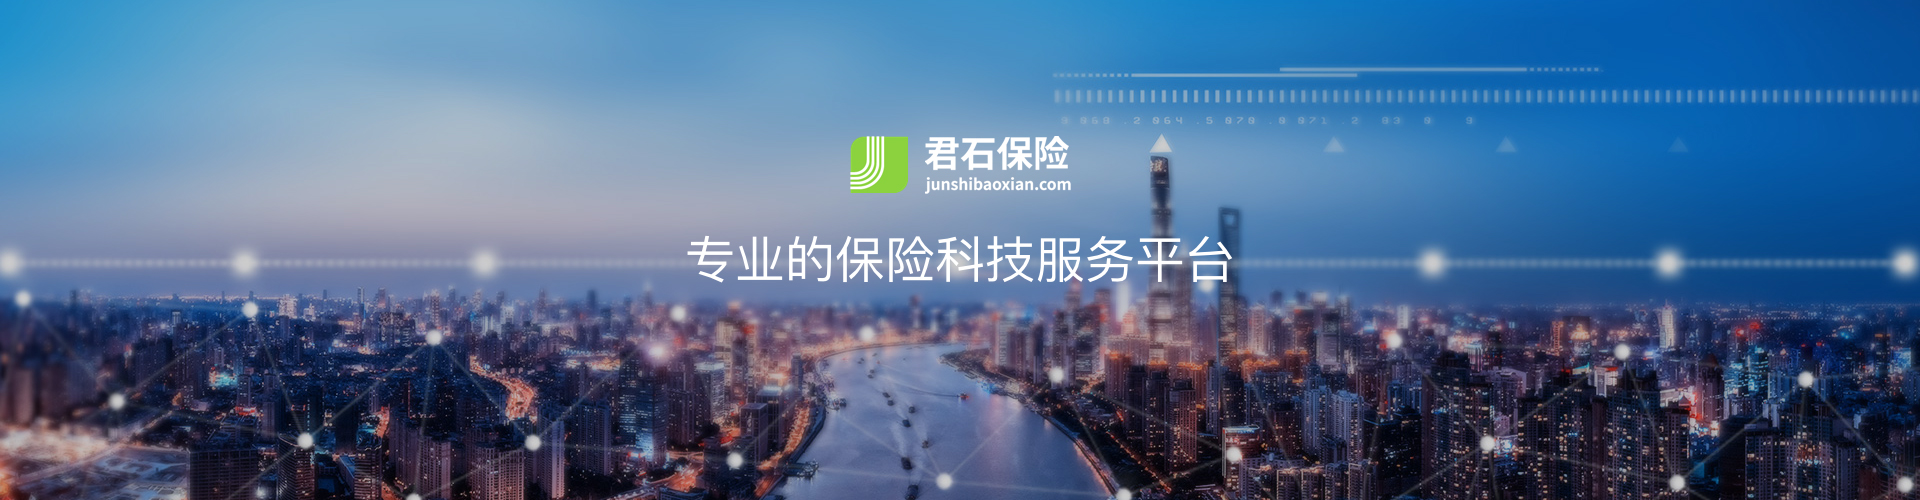
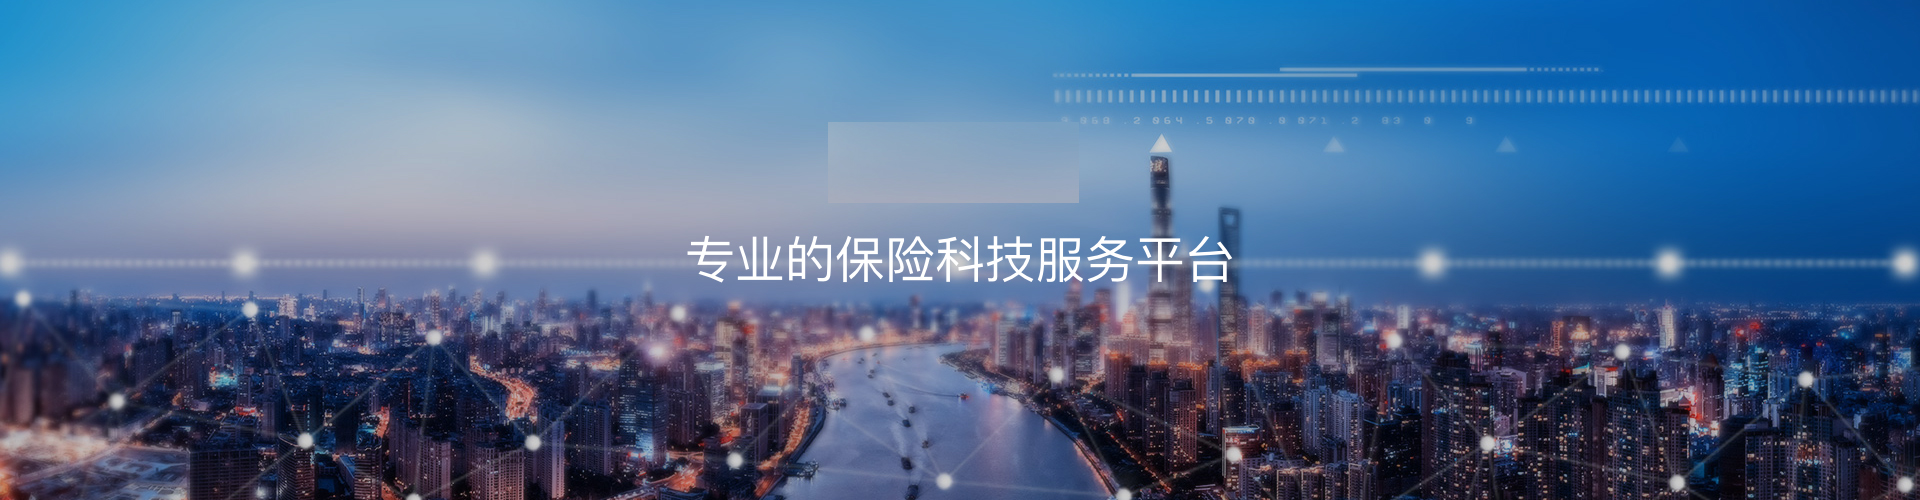
完成作业

Changed region(s): [[0.4375, 0.27, 0.5625, 0.42], [0.4062, 0.24, 0.4375, 0.27]]

diff --git a/site2/js/main.js b/site2/js/main.js
@@ -8,6 +8,30 @@ $(".ywxt_list dl").mouseover(function () {
 });
 
 $(function () {
+
+    //轮播图
+    function slidePic() {
+        var $next = $('#next'),
+            $prev = $('#prev'),
+            arrPic = $('.list-pic').find('li'),
+            slidePic = $('#slidePic');
+        var iNow = 0;
+        var timer = null;
+
+        function toRun() {
+            iNow++;
+            arrPic.eq(iNow%3).fadeIn('1000').siblings().fadeOut('1000');
+        }
+
+        timer = setInterval(toRun, 2000);
+        slidePic.hover(function () {
+            clearInterval(timer);
+        }, function () {
+            timer = setInterval(toRun, 2000);
+        })
+
+    }
+
     function login() {
         var btnLogin = $('.btn-login'),
             mask = $('#mask'),
@@ -18,19 +42,20 @@ $(function () {
             btnCloseModal = $('.dl-modal').find('.btn-close');
 
 
-        if(!localStorage.getItem('login')){
+        if (!localStorage.getItem('login')) {
             mask.fadeIn(function () {
                 modal.animate({top: '50%'}, 'slow');
                 $('.btn-login').show('fast');
                 $('.userInfo').hide('fast');
             });
-        }else{
-            $('body').css('overflow','auto');
+        } else {
+            $('body').css('overflow', 'auto');
             $('.btn-login').hide('fast');
             $('.userInfo').show('fast');
         }
+
         function closeModal() {
-            $('body').css('overflow','auto');
+            $('body').css('overflow', 'auto');
             modal.animate({top: '-500px'}, 'slow', function () {
                 mask.fadeOut();
                 $('.btn-login').hide('fast');
@@ -41,7 +66,7 @@ $(function () {
         }
 
         function openModal() {
-            $('body').css('overflow','hidden');
+            $('body').css('overflow', 'hidden');
             mask.fadeIn(function () {
                 modal.animate({top: '50%'}, 'slow');
                 $('.btn-login').show('fast');
@@ -110,11 +135,11 @@ $(function () {
     //页面滚动时定位
     $(window).scroll(function () {
         var targetTop = $(this).scrollTop();
-        var toTop=$('.btn-back-top');
+        var toTop = $('.btn-back-top');
         toTop.hide();
-        if (targetTop < 600){
+        if (targetTop < 600) {
             toTop.hide();
-        }else{
+        } else {
             toTop.show();
         }
         if (targetTop < 800) {
@@ -142,17 +167,19 @@ $(function () {
     });
 
     //禁止右键点击
-   /* $('body').bind('contextmenu', function() {
-        return false;
-    });*/
+    /* $('body').bind('contextmenu', function() {
+         return false;
+     });*/
+
     //返回顶部
-    function toTop(){
-        var btnTop=$('.btn-back-top');
+    function toTop() {
+        var btnTop = $('.btn-back-top');
         btnTop.click(function () {
-            $('html,body').animate({scrollTop: 0},'slow');
+            $('html,body').animate({scrollTop: 0}, 'slow');
         });
     }
 
+    slidePic();//轮播图
     toTop();
     login()//登录
 }());

diff --git a/site2/index.html b/site2/index.html
@@ -44,7 +44,13 @@
             </div>
         </div>
     </div>
-    <div class="banner"></div>
+    <div class="banner" id="slidePic">
+        <ul class="list-pic">
+            <li style="background-image: url('img/banner.jpg');" class="active">&nbsp;</li>
+            <li style="background-image: url('img/banner2.jpg')">&nbsp;</li>
+            <li style="background-image: url('img/banner3.jpg')">&nbsp;</li>
+        </ul>
+    </div>
     <div class="main">
         <!--市场规模-->
         <div class="scgm">
@@ -267,7 +273,7 @@
 
             </li>
             <li>
-                <input type="password" placeholder="请输入密码"  class="userPwd">
+                <input type="password" placeholder="请输入密码" class="userPwd">
             </li>
             <li>
                 <button type="submit" value="立即登录" class="btn-submit" disabled>立即登录</button>

diff --git a/site2/css/main.css b/site2/css/main.css
@@ -230,6 +230,21 @@ pre, form, fieldset, table, th, td,button{margin: 0; padding: 0; font-family:  "
 .btn-back-top:hover{
       background-color: #f2f2f2;
 }
+#slidePic {
+    position: relative;
+}
+.list-pic li{
+    position: absolute;
+    width: 100%;
+    height: 100%;
+    text-align: center;
+    background-position: center;
+    background-repeat: no-repeat;
+    display: none;
+}
+.list-pic li.active{
+    display: block;
+}
 
 
 
